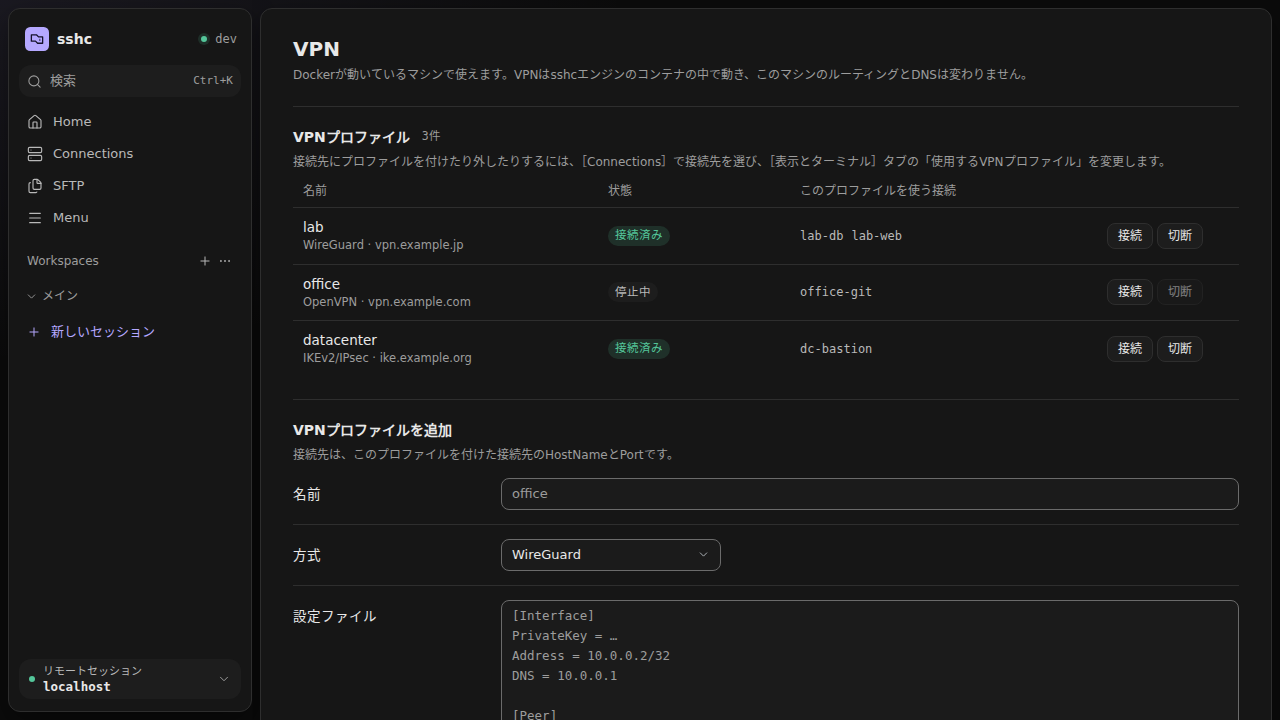
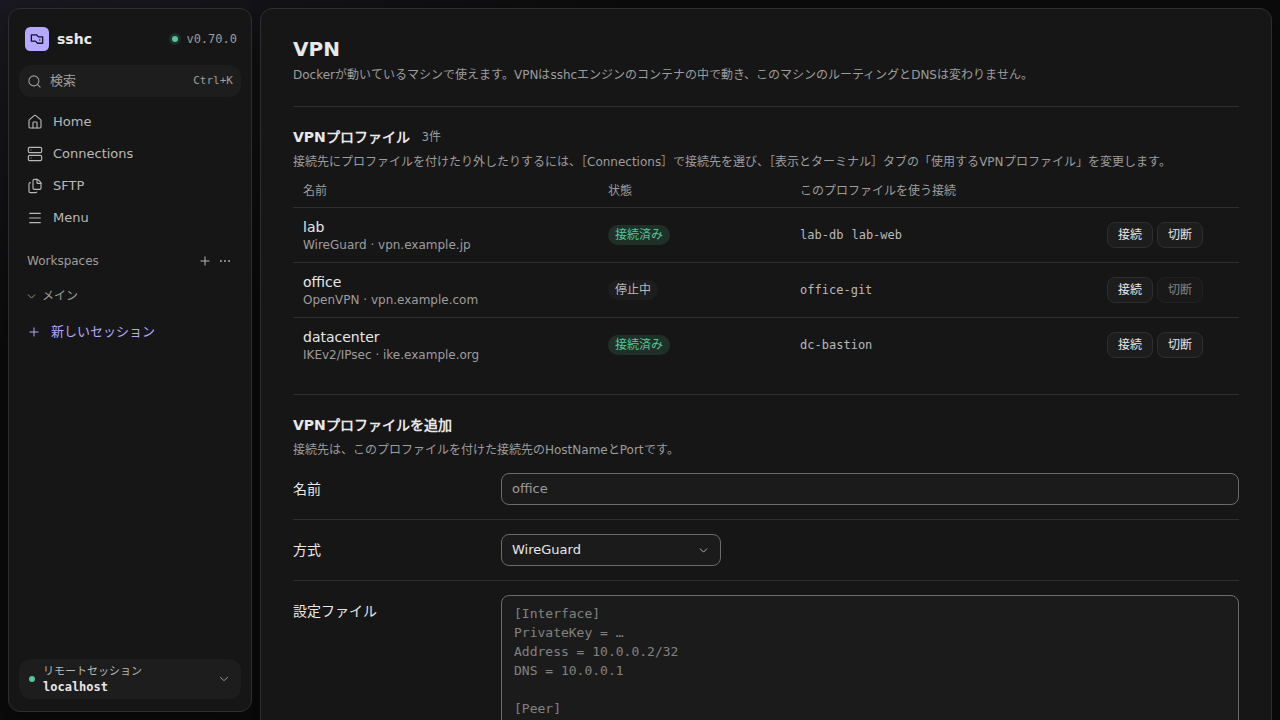
docs: v0.70.0 に合わせてドキュメントの画像を撮り直し、保存の帯と知らせの説明を足す
- 画像30枚（pages/public/images と docs/images/home.png）を、scripts/capture-doc-screenshots.sh で今の画面から
  撮り直した。前の画像は 2026-11-06 のもので、v0.69.0 のリモートセッションの枠と名札、Home の背景、v0.70.0 の
  知らせのカード・保存の帯・「〇〇中…」のボタンが写っていなかった。
- 保存の帯の説明は設定のページにしか無かったので、接続先の編集（SSH Config の詳細のタブとファイル、グループの
  編集）、VPN、Snippets、Sync の除外のページにも1文ずつ足した（日本語と英語）。
- トラブルシューティングに「画面に出る知らせ」の節を足し、失敗の知らせを［×］で消せること、済んだ操作の結果は
  画面の下に短く出ること、コピーのボタンが「✓ コピーしました」に替わることを書いた（日本語と英語）。

diff --git a/pages/en/connections/config.md b/pages/en/connections/config.md
@@ -16,7 +16,7 @@ The file box, and the box of **Edit as text** for a connection, are the same edi
 - Lines with a problem found when the configuration was read, such as a directive OpenSSH does not know, are marked; hovering the mark shows what the problem is.
 - `Tab` indents. To move the focus out of the editor with `Tab`, switch what it does with `Ctrl+M` (`Ctrl+Shift+M` on macOS).
 
-The editor shows loaded files and their Include relationships. UTF-8 text is written to a temporary file before replacement. Outside sshc-managed group markers, comments, blank lines, directive order, and unrelated blocks are preserved whenever possible. Do not edit the region between the line starting with `# >>> sshc groups` and `# <<< sshc groups` directly: its contents are replaced on the next save.
+The editor shows loaded files and their Include relationships. A changed file is saved from the same bar at the bottom of the screen. UTF-8 text is written to a temporary file before replacement. Outside sshc-managed group markers, comments, blank lines, directive order, and unrelated blocks are preserved whenever possible. Do not edit the region between the line starting with `# >>> sshc groups` and `# <<< sshc groups` directly: its contents are replaced on the next save.
 
 ### Files and directories
 
@@ -36,7 +36,7 @@ Renaming and deleting wait until unsaved edits are saved. Paths outside `~/.ssh`
 - **Display & terminal**: colour, OS icon, tags, display order, the terminal's palette and encoding, the VPN, and the other sshc-only behavior
 - **Resolved values**: effective values, sources, warnings
 
-Clearing a value removes its connection-specific directive and restores OpenSSH inheritance. Renaming, moving to a group, duplicating, the comment, the storage file, deleting, and **Edit as text** for the raw Host block are in the **…** at the top of the connection.
+Changing a value on a tab brings up a bar at the bottom of the screen with **Discard changes** and **Save**; nothing is written to the config file until it is saved (the same bar as [saving settings](/en/reference/settings#saving-settings)). Clearing a value removes its connection-specific directive and restores OpenSSH inheritance. Renaming, moving to a group, duplicating, the comment, the storage file, deleting, and **Edit as text** for the raw Host block are in the **…** at the top of the connection.
 
 ```sh
 sshc info <alias>

diff --git a/pages/en/connections/manage.md b/pages/en/connections/manage.md
@@ -45,7 +45,7 @@ Groups are folders: a group's connections live in `~/.ssh/connections/<group>/` 
 
 Move up and Move down change the order of groups at the same level. Hide in Connections works on a group with no connections directly in it. **Show hidden groups (〈count〉)** below the list brings hidden groups into view, and **Close hidden groups** hides them again. While shown they carry a **Hidden** mark, and **Stop hiding** in their **…** menu restores them.
 
-Selecting a group while no connection is open shows the group's editor on the right. Folders lists the files in the group's folder with their connections, its keys, and the `Include` line in `~/.ssh/config` that reads the folder. User name, Port, Key, and Jump host become defaults for the connections in that group; a value set on a connection itself wins.
+Selecting a group while no connection is open shows the group's editor on the right. Folders lists the files in the group's folder with their connections, its keys, and the `Include` line in `~/.ssh/config` that reads the folder. User name, Port, Key, and Jump host become defaults for the connections in that group; a value set on a connection itself wins. Changes in the group's editor are written only once they are saved from the bar at the bottom of the screen (the same bar as [saving settings](/en/reference/settings#saving-settings)).
 
 When a folder under `~/.ssh/connections/` has no `Include` line, or a group's folder is missing, Folder checks appears above the group column. Make it a group turns a folder without an `Include` line into a group.
 

diff --git a/pages/en/features/sync.md b/pages/en/features/sync.md
@@ -77,7 +77,7 @@ When automatic sync is enabled, sshc polls the remote once a minute while the Va
 
 ![Search and exclude files from synchronization](/images/sync-exclusions-desktop-en.png)
 
-Use Files to sync on the Sync screen to search current files and include or exclude them. The advanced editor manages `.sshcignore` at the root of `~/.ssh` with Gitignore-like patterns. These are globs rather than regular expressions: use `*`, `**`, `?`, `!` to re-include a path, and a leading `/` to anchor a rule at the root.
+Use Files to sync on the Sync screen to search current files and include or exclude them. The advanced editor manages `.sshcignore` at the root of `~/.ssh` with Gitignore-like patterns. Changes made either way are saved from the bar at the bottom of the screen (the same bar as [saving settings](/en/reference/settings#saving-settings)). These are globs rather than regular expressions: use `*`, `**`, `?`, `!` to re-include a path, and a leading `/` to anchor a rule at the root.
 
 The initial rules exclude common OS metadata, backup files, temporary files, lock files, SSH authorized keys and known host files, and the login environment and initialization script:
 

diff --git a/pages/terminal/commands.md b/pages/terminal/commands.md
@@ -11,7 +11,7 @@ description: コマンドを保存し、内容を確認してから1つのセッ
 
 ## スニペットを作る
 
-［Menu］→［Snippets］では、名前、コマンド、変数を保存できます。シークレット変数は通常の変数と分けて扱われ、スニペットライブラリそのものもVaultのマスターキーで暗号化されています。
+［Menu］→［Snippets］では、名前、コマンド、変数を保存できます。シークレット変数は通常の変数と分けて扱われ、スニペットライブラリそのものもVaultのマスターキーで暗号化されています。スニペットを変えた内容は、画面の下の帯の［保存］で保存します（[設定の保存](/reference/settings#設定の保存)と同じ帯です）。
 
 ## 実行前に確認する
 

diff --git a/pages/en/terminal/commands.md b/pages/en/terminal/commands.md
@@ -9,7 +9,7 @@ Open Quick Commands from the terminal overflow menu to insert, run, or copy a sa
 
 ![Terminal Quick Commands menu](/images/terminal-actions.png)
 
-Create named commands and variables under Menu → Snippets. Secret variables are handled separately and the library is encrypted with the vault master key.
+Create named commands and variables under Menu → Snippets. Secret variables are handled separately and the library is encrypted with the vault master key. Changes to a snippet are saved from the bar at the bottom of the screen (the same bar as [saving settings](/en/reference/settings#saving-settings)).
 
 Execution has a preview step showing targets, expanded commands, and required inputs. If the terminal process changes after preview, sshc refuses to send to the replacement process.
 

diff --git a/pages/features/vpn.md b/pages/features/vpn.md
@@ -90,7 +90,7 @@ VPN画面、または`sshc vpn add <名前>`で作成します。
 
 ### 作成と編集
 
-作成と編集は別の操作です。同じ名前のプロファイルがすでにある場合、作成は何も変更せずにエラーになります。
+作成と編集は別の操作です。同じ名前のプロファイルがすでにある場合、作成は何も変更せずにエラーになります。VPN画面で編集した内容は、画面の下の帯の［保存］で保存します（[設定の保存](/reference/settings#設定の保存)と同じ帯です）。
 
 | 変えたいもの | 使う操作 |
 |---|---|

diff --git a/pages/en/reference/troubleshooting.md b/pages/en/reference/troubleshooting.md
@@ -5,6 +5,10 @@ description: Checks for engine, vault, keys, sync and SSH connection failures.
 
 # Troubleshooting
 
+## Notices on the screen
+
+A failed operation shows a notice with a red border on the screen or in the sidebar. It stays until the next operation, and the **×** at its top right closes it once read. The result of a finished operation (such as starting a port forward) appears briefly at the bottom of the screen and then goes away. A copy button turns into **✓ Copied** for about two seconds after it is pressed.
+
 ## The engine does not start
 
 ```sh

diff --git a/pages/en/features/vpn.md b/pages/en/features/vpn.md
@@ -90,7 +90,7 @@ Secrets are encrypted and kept in the vault.
 
 ### Creating and editing
 
-Creating and editing are separate operations. Creating a profile whose name is already taken is refused and changes nothing.
+Creating and editing are separate operations. Creating a profile whose name is already taken is refused and changes nothing. Changes made with Edit on the VPN screen are saved from the bar at the bottom of the screen (the same bar as [saving settings](/en/reference/settings#saving-settings)).
 
 | To change | Use |
 |---|---|
